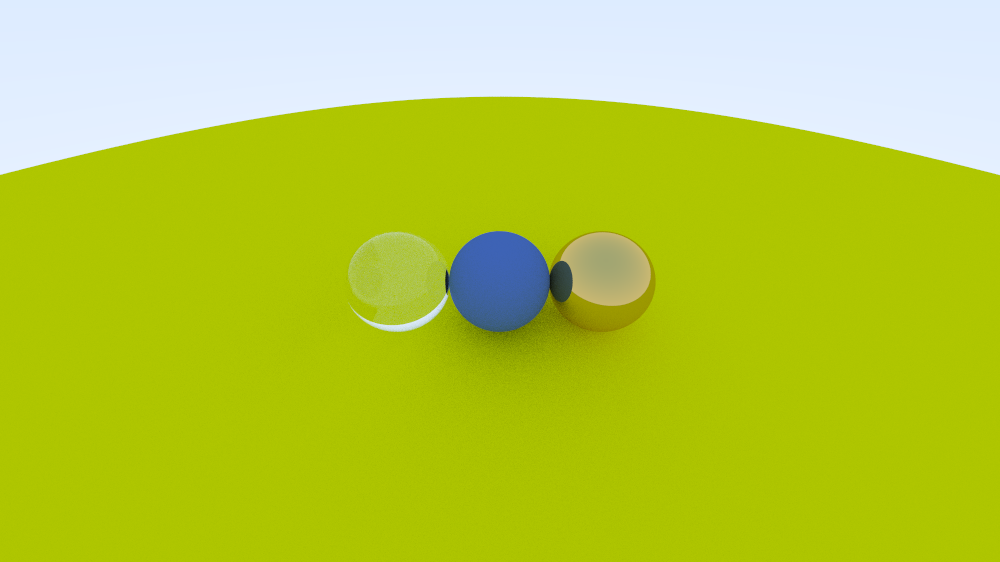
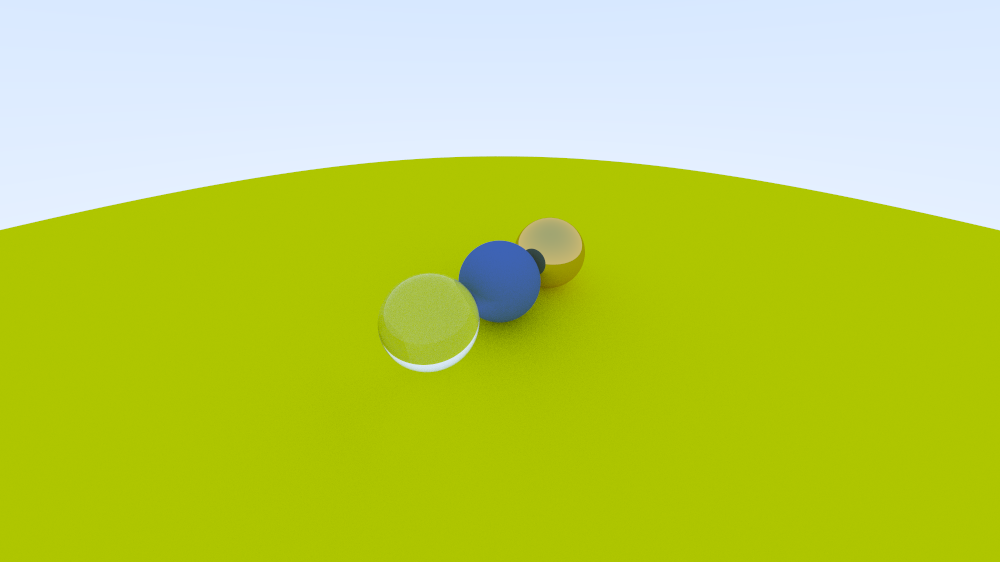
edge detection

Changed region(s): [[0.0, 0.1512, 1.0, 0.4235], [0.341, 0.363, 0.682, 0.6655]]

diff --git a/tracer.go b/tracer.go
@@ -6,14 +6,17 @@ import (
 	"lukechampine.com/frand"
 )
 
-func RayColor(r Ray, n Hitter, depth int) Color {
-	if depth <= 0 {
+type RayColorFunc func(ray Ray, hitter Hitter, depth int, bounces int) Color
+type AggColorFunc func([]Color) Color
+
+func RayColor(r Ray, n Hitter, depth, bounces int) Color {
+	if bounces >= depth {
 		return Color{}
 	}
 
 	if hr := n.Hit(r); hr.Hit {
 		if sr := hr.Material.Scatter(r, hr); sr.Scatter {
-			return Color(sr.Attenuation.Vec3().MulVec3(RayColor(sr.Ray, n, depth-1).Vec3()))
+			return Color(sr.Attenuation.Vec3().MulVec3(RayColor(sr.Ray, n, depth, bounces+1).Vec3()))
 		}
 		return Color{}
 	}
@@ -23,10 +26,43 @@ func RayColor(r Ray, n Hitter, depth int) Color {
 	return Color(Vec3{1, 1, 1}.MulFloat(1.0 - t).Add(Vec3{0.5, 0.7, 1.0}.MulFloat(t)))
 }
 
-func Render(frame *Frame, cam Camera, l HitterList, samplesPerPixel, nWorkers int, stop <-chan bool) {
+func RayBVHID(r Ray, n Hitter, _, _ int) Color {
+	if hr := n.Hit(r); hr.Hit {
+		// origin := ClosestVertex(hr.BVHNode.Box, cam.LookFrom)
+		// normal := cam.LookFrom.Vec3().Sub(origin.Vec3())
+		// plane := NewPlane(origin, normal)
+
+		// boxMin := hr.BVHNode.Box.Min.Vec3()
+		// boxMax := hr.BVHNode.Box.Max.Vec3()
+		// origin := Point3(boxMin.Add(boxMax).MulFloat(0.5))
+		// normal := cam.LookFrom.Vec3().Sub(hr.P.Vec3())
+		// plane := NewPlane(origin, normal)
+		return Uint64ToColor(hr.BVHNode.ID)
+	}
+
+	return Color{}
+}
+
+func ColorToUint64(color Color) uint64 {
+	// return uint64(math.Ceil(math.Pow(color[0], 3.0)))
+	return uint64(color[0])
+}
+
+func Uint64ToColor(val uint64) Color {
+	// pow := math.Pow(float64(val), 1.0/3.0)
+	// return Color{pow, pow, pow}
+	return Color{float64(val), 0, 0}
+}
+
+func Render(frame *Frame, cam Camera, l HitterList, rayColorFun RayColorFunc, aggColorFun AggColorFunc, samplesPerPixel, nWorkers int, stop <-chan bool) {
 	jobs := make(chan Job, nWorkers)
 	results := make(chan JobResult, nWorkers)
 	done := make(chan bool, 1)
+
+	bvh, err := NewBVHNode(l)
+	if err != nil {
+		panic(err)
+	}
 
 	settings := RenderSettings{
 		FrameWidth:      frame.Width(),
@@ -34,11 +70,11 @@ func Render(frame *Frame, cam Camera, l HitterList, samplesPerPixel, nWorkers in
 		MaxDepth:        50,
 		Camera:          cam,
 		SamplesPerPixel: samplesPerPixel,
-		Hitter:          NewBVHNode(l),
+		Hitter:          bvh,
 	}
 
 	for i := 0; i < nWorkers; i++ {
-		go Worker(jobs, results, done)
+		go Worker(rayColorFun, aggColorFun, jobs, results, done)
 	}
 
 	go func() {
@@ -77,21 +113,41 @@ func Render(frame *Frame, cam Camera, l HitterList, samplesPerPixel, nWorkers in
 	<-done
 }
 
-func Worker(in chan Job, out chan JobResult, done chan bool) {
+func AvgSamples(samples []Color) Color {
+	v := Vec3{}
+	for _, cc := range samples {
+		v = v.Add(cc.Vec3())
+	}
+	return Color(v.MulFloat(1.0 / float64(len(samples))))
+}
+
+func EdgeSamples(samples []Color) Color {
+	freq := map[uint64]int{}
+	mostFreqKey := uint64(0)
+	for _, cc := range samples {
+		key := ColorToUint64(cc)
+		freq[key] += 1
+		if freq[key] > freq[mostFreqKey] {
+			mostFreqKey = key
+		}
+	}
+
+	return Uint64ToColor(mostFreqKey)
+}
+
+func Worker(rayColorFun RayColorFunc, aggColorFun AggColorFunc, in chan Job, out chan JobResult, done chan bool) {
 	for {
 		select {
 		case job := <-in:
-			c := Color{}
-
+			samples := make([]Color, 0, job.Settings.SamplesPerPixel)
 			for s := 0; s < job.Settings.SamplesPerPixel; s++ {
 				u := (float64(job.Column) + frand.Float64()) / float64(job.Settings.FrameWidth-1)
 				v := (float64(job.Row) + frand.Float64()) / float64(job.Settings.FrameHeight-1)
 				r := job.Settings.Camera.GetRay(u, v)
-				c = Color(c.Vec3().Add(RayColor(r, job.Settings.Hitter, job.Settings.MaxDepth).Vec3()))
+				c := rayColorFun(r, job.Settings.Hitter, job.Settings.MaxDepth, 0)
+				samples = append(samples, c)
 			}
-
-			c = Color(c.Vec3().MulFloat(1.0 / float64(job.Settings.SamplesPerPixel)))
-
+			c := aggColorFun(samples)
 			out <- JobResult{Row: job.Row, Column: job.Column, Color: c}
 		case <-done:
 			return

diff --git a/hitter.go b/hitter.go
@@ -4,6 +4,7 @@ import (
 	"errors"
 	"math"
 	"sort"
+	"sync/atomic"
 
 	"lukechampine.com/frand"
 )
@@ -20,6 +21,7 @@ type HitRecord struct {
 	P         Point3
 	Normal    Vec3
 	Material  Material
+	BVHNode   BVHNode
 }
 
 type Sphere struct {
@@ -111,32 +113,61 @@ func (h HitterList) BoundingBox() AABB {
 }
 
 type BVHNode struct {
+	ID          uint64
 	Box         AABB
 	Left, Right Hitter
 }
 
-func NewBVHNode(l HitterList) BVHNode {
-	axis := frand.Intn(3)
+// 0 is reserved
+var bvhCounter = uint64(0)
 
-	node := BVHNode{}
+func NewBVHNode(l HitterList) (BVHNode, error) {
+	if len(l) == 0 {
+		return BVHNode{}, errors.New("empty list")
+	}
+
+	axis := frand.Intn(3)
+	node := BVHNode{ID: atomic.AddUint64(&bvhCounter, 1)}
 
 	switch len(l) {
 	case 1:
 		node.Left, node.Right = l[0], l[0]
 	case 2:
+		var err error
 		if l[0].BoundingBox().Compare(l[1].BoundingBox(), axis) {
-			node.Left, node.Right = l[0], l[1]
+			node.Left, err = NewBVHNode(l[:1])
+			if err != nil {
+				return node, err
+			}
+			node.Right, err = NewBVHNode(l[1:])
+			if err != nil {
+				return node, err
+			}
 		} else {
-			node.Left, node.Right = l[1], l[0]
+			node.Left, err = NewBVHNode(l[1:])
+			if err != nil {
+				return node, err
+			}
+			node.Right, err = NewBVHNode(l[:1])
+			if err != nil {
+				return node, err
+			}
 		}
 	default:
 		sort.Slice(l, func(i, j int) bool {
 			return l[i].BoundingBox().Compare(l[j].BoundingBox(), axis)
 		})
 
+		var err error
 		mid := len(l) / 2
-		node.Left = NewBVHNode(l[:mid])
-		node.Right = NewBVHNode(l[mid:])
+		node.Left, err = NewBVHNode(l[:mid])
+		if err != nil {
+			return node, err
+		}
+		node.Right, err = NewBVHNode(l[mid:])
+		if err != nil {
+			return node, err
+		}
 	}
 
 	if node.Left.BoundingBox().Zero() || node.Right.BoundingBox().Zero() {
@@ -145,7 +176,7 @@ func NewBVHNode(l HitterList) BVHNode {
 
 	node.Box = node.Left.BoundingBox().Surrounding(node.Right.BoundingBox())
 
-	return node
+	return node, nil
 }
 
 func (n BVHNode) BoundingBox() AABB {
@@ -160,6 +191,13 @@ func (n BVHNode) Hit(ray Ray) HitRecord {
 	hrLeft := n.Left.Hit(ray)
 	hrRight := n.Right.Hit(ray)
 
+	if _, ok := n.Left.(BVHNode); !ok {
+		hrLeft.BVHNode = n
+	}
+	if _, ok := n.Right.(BVHNode); !ok {
+		hrRight.BVHNode = n
+	}
+
 	if hrLeft.Hit && hrRight.Hit {
 		if hrLeft.T < hrRight.T {
 			return hrLeft
@@ -170,4 +208,47 @@ func (n BVHNode) Hit(ray Ray) HitRecord {
 		return hrLeft
 	}
 	return hrRight
+}
+
+type Plane struct {
+	Origin Point3
+	// Unit
+	Normal Vec3
+	// Width, Height float64
+	Axis [2]Vec3
+}
+
+func NewPlane(origin Point3, normal Vec3) Plane {
+	normal = normal.Unit()
+
+	var tangent0 Vec3
+	switch {
+	case normal[0] != 0:
+		tangent0 = Vec3{-normal[1] / normal[0], 1, 0}
+	case normal[1] != 0:
+		tangent0 = Vec3{1, -normal[0] / normal[1], 0}
+	case normal[2] != 0:
+		tangent0 = Vec3{1, 0, -normal[0] / normal[2]}
+	}
+	tangent0 = tangent0.Unit()
+	tangent1 := normal.Cross(tangent0).Unit()
+
+	return Plane{
+		Origin: origin,
+		Axis:   [2]Vec3{tangent0, tangent1},
+	}
+}
+
+func (p Plane) BoundingBox() AABB {
+	return AABB{}
+}
+
+func (p Plane) Hit(ray Ray) HitRecord {
+	return HitRecord{}
+}
+
+func (p Plane) Project(point Point3) Point3 {
+	v := point.Vec3().Sub(p.Origin.Vec3())
+	dist := v.Dot(p.Normal)
+	return Point3(v.Add(p.Normal.MulFloat(dist)))
 }

diff --git a/cmd/tracer.go b/cmd/tracer.go
@@ -63,16 +63,48 @@ func execute() {
 	cam := tracer.Camera{
 		AspectRatio: 16.0 / 9.0,
 		VFoV:        90,
-		LookFrom:    tracer.Point3{-0, 2, 1},
+		LookFrom:    tracer.Point3{-2, 2, 1},
 		LookAt:      tracer.Point3{0, 0, -1},
 		VUp:         tracer.Vec3{0, 1, 0},
 	}
 
 	frame := tracer.NewFrame(imageWidth, imageHeight)
 
-	tracer.Render(frame, cam, l, 100, 20, make(chan bool, 1))
+	// tracer.Render(frame, cam, l, tracer.RayBVHID, tracer.EdgeSamples, 200, 20, make(chan bool, 1))
+	tracer.Render(frame, cam, l, tracer.RayColor, tracer.AvgSamples, 200, 20, make(chan bool, 1))
+
+	finalFrame := tracer.NewFrame(imageWidth, imageHeight)
+
+	for row := 0; row < frame.Height(); row++ {
+		for col := 0; col < frame.Width(); col++ {
+			if !isEdge(frame, row, col) {
+				continue
+			}
+			finalFrame.Set(row, col, tracer.Color{255, 255, 255})
+		}
+	}
+
+	// frame = finalFrame
 
 	if err := frame.Save("image.png"); err != nil {
 		panic(err)
 	}
+}
+
+func isEdge(frame *tracer.Frame, row, col int) bool {
+	for i := -1; i < 2; i++ {
+		for j := -1; j < 2; j++ {
+			if i == 0 && j == 0 {
+				continue
+			}
+			x, y := row+i, col+j
+			if x < 0 || y < 0 || x >= frame.Height() || y >= frame.Width() {
+				continue
+			}
+			if tracer.ColorToUint64(frame.Get(row, col)) != tracer.ColorToUint64(frame.Get(x, y)) {
+				return true
+			}
+		}
+	}
+	return false
 }

diff --git a/math.go b/math.go
@@ -130,3 +130,25 @@ func RandomInHemisphere(normal Vec3) Vec3 {
 func DegreesToRadians(degrees float64) float64 {
 	return degrees * math.Pi / 180.0
 }
+
+func ClosestVertex(box AABB, target Point3) Point3 {
+	var closest Point3
+	closestDistance := math.Inf(+1)
+	for _, p := range []Point3{
+		box.Min,
+		box.Max,
+		Point3{box.Min[0], box.Min[1], box.Max[2]},
+		Point3{box.Min[0], box.Max[1], box.Min[2]},
+		Point3{box.Max[0], box.Min[1], box.Min[2]},
+		Point3{box.Min[0], box.Max[1], box.Max[2]},
+		Point3{box.Max[0], box.Min[1], box.Max[2]},
+		Point3{box.Max[0], box.Max[1], box.Min[2]},
+	} {
+		dist := target.Vec3().Sub(p.Vec3()).Len()
+		if dist < closestDistance {
+			closestDistance = dist
+			closest = p
+		}
+	}
+	return closest
+}

diff --git a/README.md b/README.md
@@ -11,3 +11,4 @@
 * same camera, scene is an infinite square at a fixed distance from the camera (origin of the local cube space), and colors are how distant from the camera the point is
 
 ![image](image.png)
+![image](edges.png)
